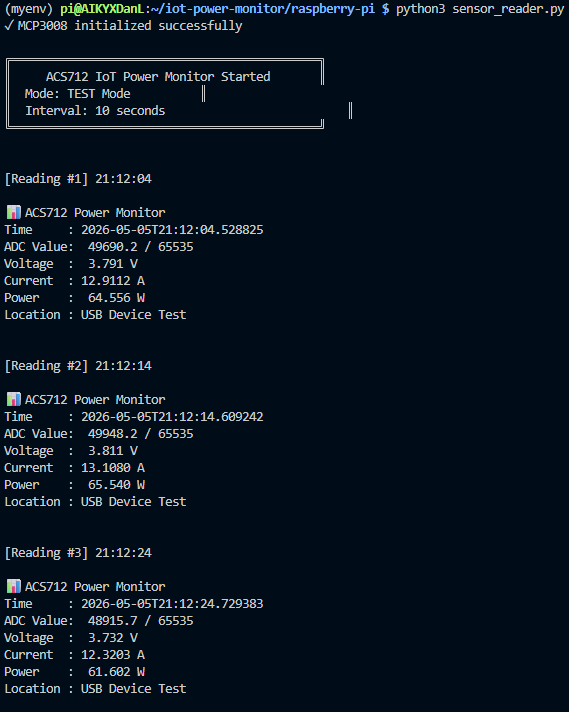
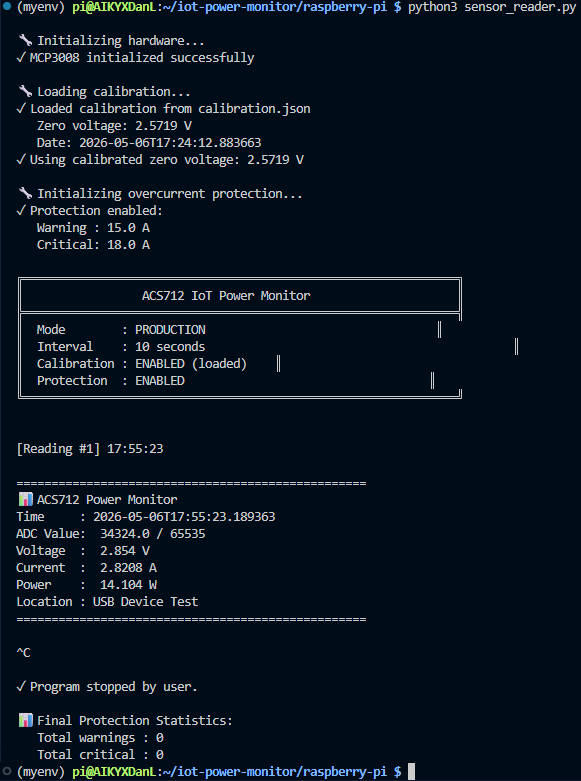
"feat: implement ACS712 power sensor reading
- MCP3008 ADC integration with SPI
- ADC value → voltage → current → power conversion
- Support for ACS712-20A specifications
- Multiple sampling (100x) for noise reduction
- Complete power calculation pipeline
- Test script for all conversion stages"

diff --git a/raspberry-pi/sensor_reader.py b/raspberry-pi/sensor_reader.py
@@ -27,7 +27,7 @@ from ACS712_Overcurrent import OvercurrentProtection, OvercurrentError
 # ========================= CONFIGURATION =========================
 
 # ACS712 Sensor Parameters (ACS712-20A)
-ACS712_VCC = 5.0               # Supply voltage to ACS712 (Volts)
+ACS712_VCC = 5.3               # Supply voltage to ACS712 (Volts)
 ACS712_SENSITIVITY = 0.100     # 100 mV/A for 20A version (Volts per Ampere)
 ACS712_THEORETICAL_OFFSET = 0.5  # 50% offset (2.5V when no current)
 
@@ -151,7 +151,7 @@ def voltage_to_current(voltage, calibration_zero_voltage=None):
     
     # Calculate current
     current_a = (voltage - offset_voltage) / ACS712_SENSITIVITY
-    return current_a
+    return abs(current_a)
 
 
 def calculate_power(current_a, load_voltage=LOAD_VOLTAGE):
@@ -442,6 +442,7 @@ if __name__ == "__main__":
     # Parse command line arguments
     args = sys.argv[1:]
     
+    # Add help command 
     if "--help" in args or "-h" in args:
         print_usage()
         sys.exit(0)

diff --git a/README.md b/README.md
@@ -1,50 +1,87 @@
-# IoT电力监控系统
+# IoT Power Monitor - ACS712 Current Monitoring System
 
-## 🎯 项目目标
-实时监控电力消耗，使用树莓派采集数据，通过Claude API进行数据分析，存储到Supabase，展示在Next.js仪表板。
+# Updated 2026/5/6
+```bash
+Raspberry Pi + ACS712 Current Sensor + MCP3008 ADC + Claude API intelligent power monitoring system
 
-## 🏗 系统架构
+## Hardware Requirements
+- Raspberry Pi 4 (4GB+)
+- ACS712-20A Current Sensor ×2
+- MCP3008 8-channel ADC Converter
+- Breadboard + Jumper Wires
 
+## Tech Stack
+- **Hardware Interface**: SPI (MCP3008)
+- **Sensor**: ACS712 20A (100mV/A)
+- **Data Acquisition**: Adafruit CircuitPython
+- **AI Analysis**: Claude 3.5 Sonnet API
+- **Database**: Supabase PostgreSQL
+- **Web Dashboard**: Next.js Dashboard (Week 3)
+
+## Features
+- ✅ Real-time current acquisition (via MCP3008 ADC)
+- ✅ Automatic power calculation (W)
+- ✅ Claude AI anomaly detection
+- ✅ Persistent data storage
+- ✅ Multi-language support
+
+## Quick Start
+
+### 1. Hardware Wiring
+Connect MCP3008 and ACS712 according to documentation
+
+### 2. Install Dependencies
+pip install -r requirements.txt
 ```
-	Raspberry Pi 4 (温湿度/电力传感器)
-	      ↓ USB / 网络
-	   Python脚本 (读取传感器数据)
-	      ↓ REST API
-	   Claude API (数据分析 & 异常检测)
-	      ↓ JSON响应
-	   Supabase (PostgreSQL数据库)
-	      ↓ Real-time
-	   Next.js Dashboard (React可视化)
-	      ↓
-	   用户浏览器 (图表 & 实时数据)
-```
 
-## 📋 核心功能
 
-- [ ] Raspberry Pi读取电力传感器数据
-- [ ] 通过Claude API进行实时分析
-- [ ] 存储到Supabase数据库
-- [ ] Next.js仪表板展示
-- [ ] 异常警告系统
+```bash
+🎯 Project Goal / プロジェクト目標
+Real-time power consumption monitoring using Raspberry Pi for data collection, Claude API for analysis, Supabase for storage, and Next.js dashboard for visualization.
+ラズベリーパイを使用したリアルタイム電力消費モニタリング、データ収集、Claude APIによる分析、Supabaseによる保存、Next.jsダッシュボードによる可視化。
 
-## 🛠 技术栈
+## 🏗 System Architecture / システムアーキテクチャ
+Raspberry Pi 4 (Temperature/Humidity/Power Sensors) / ラズベリーパイ4（温湿度/電力センサー）
+↓ USB / Network / USB/ネットワーク
+Python Script (Sensor Data Reading) / Pythonスクリプト（センサーデータ読み取り）
+↓ REST API / REST API
+Claude API (Data Analysis & Anomaly Detection) / Claude API（データ分析 & 異常検出）
+↓ JSON Response / JSONレスポンス
+Supabase (PostgreSQL Database) / Supabase（PostgreSQLデータベース）
+↓ Real-time / リアルタイム
+Next.js Dashboard (React Visualization) / Next.jsダッシュボード（React可視化）
+↓
+User Browser (Charts & Real-time Data) / ユーザーブラウザ（チャート & リアルタイムデータ）
 
-- **硬件**：Raspberry Pi 4 (4GB)
-- **传感器**：ACS712电流传感器
-- **后端**：Python + Claude API + Supabase
-- **前端**：Next.js + TypeScript + Tailwind CSS
-- **部署**：Vercel (前端) + Supabase (后端)
 
-## 📚 学习路径
 
-Week 1-2：硬件组装 + Python基础
-Week 3-4：Claude API集成
-Week 5-6：Supabase数据库
-Week 7-8：Next.js仪表板
+## 📋 Core Features / コア機能
 
-## 🚀 开发进度
+- [x] Raspberry Pi reads power sensor data / ラズベリーパイで電力センサーデータを読み取り
+- [ ] Real-time analysis via Claude API / Claude APIによるリアルタイム分析
+- [ ] Store to Supabase database / Supabaseデータベースに保存
+- [ ] Display on Next.js dashboard / Next.jsダッシュボードで表示
+- [ ] Anomaly alert system / 異常警報システム
 
-- [ ] Week 1 (4/23-4/27)：架构设计 ← **现在**
-- [ ] Week 2 (4/28-5/4)：Raspberry Pi OS安装 + Python传感器读取
-- [ ] Week 3-4：Claude API集成
+## 🛠 Tech Stack / 技術スタック
+
+- **Hardware / ハードウェア**: Raspberry Pi 4 (4GB)
+- **Sensor / センサー**: ACS712 Current Sensor / ACS712電流センサー
+- **Backend / バックエンド**: Python + Claude API + Supabase
+- **Frontend / フロントエンド**: Next.js + TypeScript + Tailwind CSS
+- **Deployment / デプロイ**: Vercel (Frontend) + Supabase (Backend)
+
+## 📚 Learning Path / 学習パス
+
+- Week 1-2 / 第1-2週: Hardware Assembly + Python Basics / ハードウェア組立て + Python基礎 ✅
+- Week 3-4 / 第3-4週: Claude API Integration / Claude API統合
+- Week 5-6 / 第5-6週: Supabase Database / Supabaseデータベース
+- Week 7-8 / 第7-8週: Next.js Dashboard / Next.jsダッシュボード
+
+## 🚀 Development Progress / 開発進捗
+
+- [x] Week 1 (4/23-4/27): Architecture Design 
+- [x] Week 2 (4/28-5/4): Raspberry Pi OS Installation + Python Sensor Reading / Raspberry Pi OSインストール + Pythonセンサー読み取り
+- [ ] Week 3-4: Claude API Integration / Claude API統合
 - [ ] ...
+```
